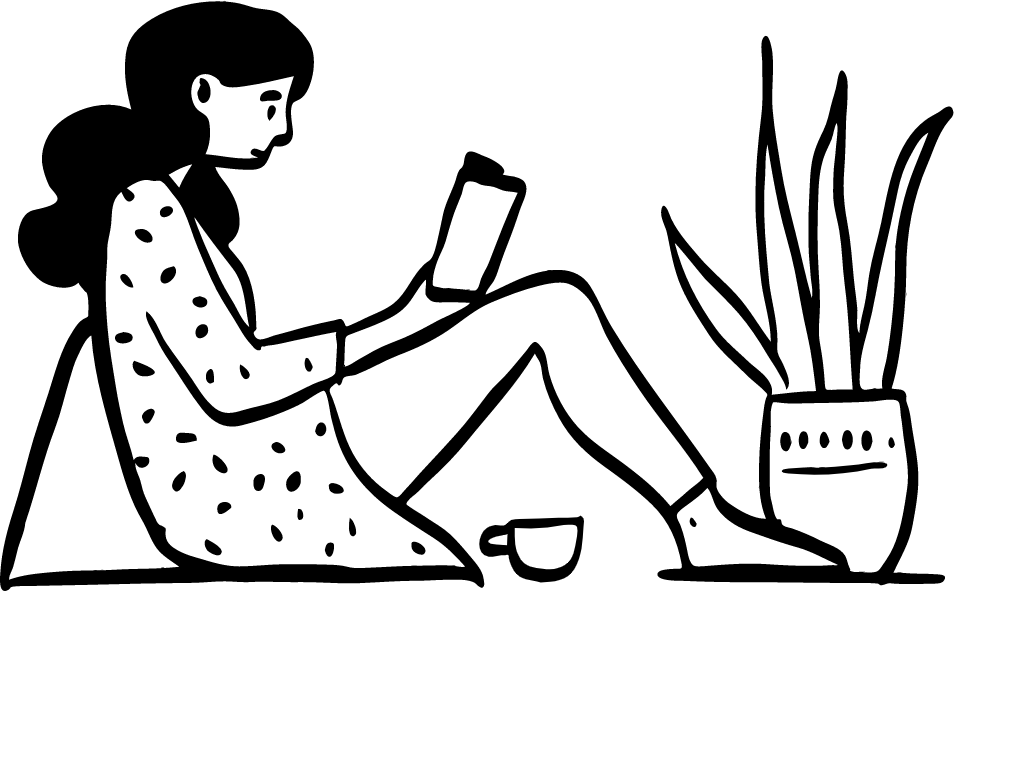
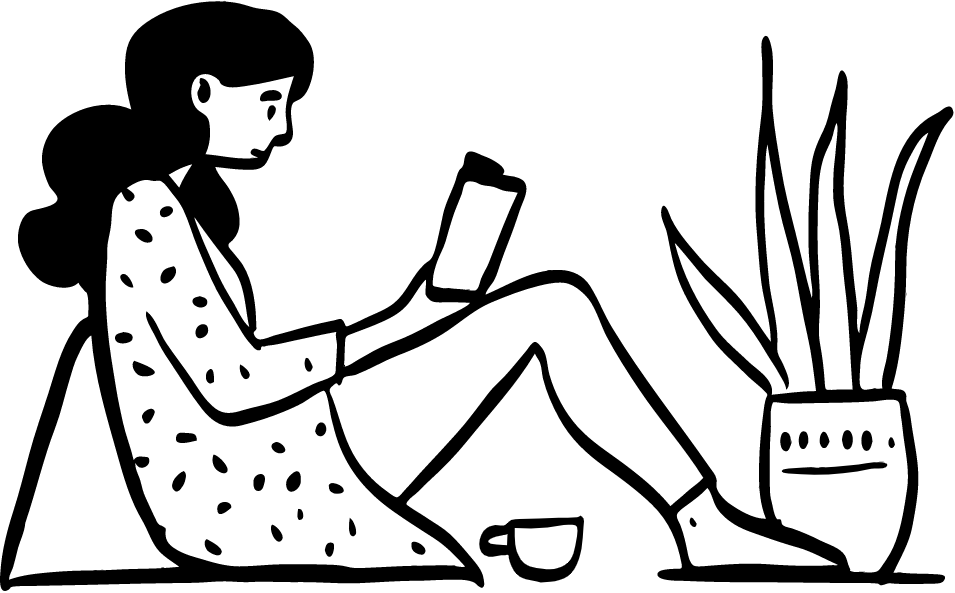
updates to landing

diff --git a/src/pages/index.js b/src/pages/index.js
@@ -1,177 +1,171 @@
 import React from 'react'
-
-import ReadingSideDoodle from '../images/doodles/ReadingSideDoodle.png'
-import MeditatingDoodle from '../images/doodles/MeditatingDoodle.png'
-import SelfieDoodle from '../images/doodles/SelfieDoodle.png'
-import LayingDoodle from '../images/doodles/LayingDoodle.png'
+import { graphql, useStaticQuery } from 'gatsby'
+import Image from 'gatsby-image'
 
 import Layout from '../components/layout'
 import Animated from '../components/animated'
 
 import { Check } from 'react-feather'
 
+const Section = ({ number, src, title, children }) => {
+  return (
+    <section className="container py-16 xl:py-48 flex flex-wrap items-center justify-center text-lg xl:text-xl">
+      <div className="w-full xl:w-1/2 flex justify-center xl:justify-end">
+        <div className="w-full relative mb-12 xl:mb-0 xl:mr-32">
+          <Image fluid={src} />
+          <div className="absolute top-0 left-0 -mt-12 -ml-12">
+            <p className="counter">{number}</p>
+          </div>
+        </div>
+      </div>
+      <div className="w-full xl:w-1/2">
+        <Animated>
+          <h2 className="text-4xl xl:text-6xl mb-4 xl:mb-8">{title}</h2>
+        </Animated>
+        <Animated>{children}</Animated>
+      </div>
+    </section>
+  )
+}
+
 export default () => {
+  const { readingSide, meditating, selfie, laying } = useStaticQuery(graphql`
+    query {
+      readingSide: file(relativePath: { eq: "doodles/ReadingSideDoodle.png" }) {
+        childImageSharp {
+          fluid(maxWidth: 400) {
+            ...GatsbyImageSharpFluid_noBase64
+          }
+        }
+      }
+      meditating: file(relativePath: { eq: "doodles/MeditatingDoodle.png" }) {
+        childImageSharp {
+          fluid(maxWidth: 400) {
+            ...GatsbyImageSharpFluid_noBase64
+          }
+        }
+      }
+      selfie: file(relativePath: { eq: "doodles/SelfieDoodle.png" }) {
+        childImageSharp {
+          fluid(maxWidth: 400) {
+            ...GatsbyImageSharpFluid_noBase64
+          }
+        }
+      }
+      laying: file(relativePath: { eq: "doodles/LayingDoodle.png" }) {
+        childImageSharp {
+          fluid(maxWidth: 400) {
+            ...GatsbyImageSharpFluid_noBase64
+          }
+        }
+      }
+    }
+  `)
+  const img1 = readingSide?.childImageSharp?.fluid
+  const img2 = meditating?.childImageSharp?.fluid
+  const img3 = selfie?.childImageSharp?.fluid
+  const img4 = laying?.childImageSharp?.fluid
   return (
     <Layout>
-      <section className="border-b-2 mb-16 xl:mb-0">
-        <div className="flex flex-wrap items-center relative p-8 xl:py-32 xl:px-12 overflow-hidden">
+      <section className="border-b mb-16 xl:mb-0 relative py-16 xl:py-48">
+        <div className="container flex flex-wrap items-center">
           <div className="w-full xl:w-3/5 mb-8 xl:mb-0 text-center xl:text-left">
-            <h1 className="text-4xl xl:text-6xl">
+            <h1 className="text-4xl xl:text-6xl font-thin">
               Send newsletters{' '}
-              <span className="pt-3 p-1 bg-gradient-to-r from-red-200 to-red-500">
-                directly
-              </span>{' '}
-              to your Kindle
+              <span className="italic font-bold">directly</span> to your Kindle
             </h1>
-            <div className="flex xl:block items-center justify-center mt-8 text-lg xl:text-base">
-              <a href="https://app.newslettertokindle.com">
+            <div className="flex xl:block items-center justify-center mt-8 xl:mt-4 text-lg xl:text-base">
+              <a href="https://app.newslettertokindle.com" className="contents">
                 <button className="btn">Get Started</button>
               </a>
             </div>
           </div>
-          <div className="w-full xl:w-2/5">
-            <img src={ReadingSideDoodle} className="-mb-16" />
+          <div className="xl:absolute right-0 top-0 w-full xl:w-2/5 xl:py-24 xl:mr-8">
+            <Image fluid={img1} />
           </div>
         </div>
       </section>
 
-      <section className="container py-16 xl:py-48 flex flex-wrap items-center justify-center text-lg xl:text-xl">
-        <div className="w-full xl:w-1/2 flex justify-center xl:justify-end">
-          <div className="relative mb-12 xl:mb-0 xl:mr-32">
-            <img src={MeditatingDoodle} />
-            <div className="absolute top-0 left-0 -mt-12 -ml-12">
-              <p className="counter">1</p>
-            </div>
-          </div>
-        </div>
-        <div className="w-full xl:w-1/2">
-          <Animated>
-            <h2 className="text-4xl xl:text-6xl mb-4 xl:mb-8">
-              Create an account
-            </h2>
-          </Animated>
-          <Animated>
-            <p>
-              Lorem ipsum dolor sit amet, consectetur adipiscing elit. Curabitur
-              faucibus eu leo ut consequat. Curabitur fermentum auctor dolor vel
-              placerat. Aliquam vitae leo varius, sodales orci eget, lacinia
-              est.
-            </p>
-          </Animated>
-        </div>
-      </section>
+      <Section number={1} title="Create an account" src={img2}>
+        <p>
+          Set up your account and start out with a month trial to see how you
+          like the service. No credit card required.
+        </p>
+      </Section>
 
-      <section className="container py-16 xl:py-48 flex flex-wrap items-center justify-center text-lg xl:text-xl">
-        <div className="w-full xl:w-1/2 flex justify-center xl:justify-end">
-          <div className="relative mb-12 xl:mb-0 xl:mr-32">
-            <img src={SelfieDoodle} />
-            <div className="absolute top-0 left-0 -mt-12 -ml-12">
-              <p className="counter">2</p>
-            </div>
-          </div>
-        </div>
-        <div className="w-full xl:w-1/2">
-          <Animated>
-            <h2 className="text-4xl xl:text-6xl mb-4 xl:mb-8">
-              Subscribe with your new email
-            </h2>
-          </Animated>
-          <Animated>
-            <p>
-              Lorem ipsum dolor sit amet, consectetur adipiscing elit. Curabitur
-              faucibus eu leo ut consequat. Curabitur fermentum auctor dolor vel
-              placerat. Aliquam vitae leo varius, sodales orci eget, lacinia
-              est.
-            </p>
-          </Animated>
-        </div>
-      </section>
+      <Section number={2} title="Subscribe with your new email" src={img3}>
+        <p>
+          Once you have created an account and linked with your Kindle device,
+          you will be provided a unique email address. You can use this email to
+          subscribe to newsletters that you want delivered right to your device.
+        </p>
+        {/* <p className="mt-6 text-sm italic">
+          Lacking inspiration?{' '}
+          <a
+            href="https://washburne.dev/favorites/newsletters"
+            target="_blank"
+            rel="noreferrer"
+            className="link"
+          >
+            Some of our favorite newsletters
+          </a>
+        </p> */}
+      </Section>
 
-      <section className="container py-16 xl:py-48 flex flex-wrap items-center justify-center text-lg xl:text-xl">
-        <div className="w-full xl:w-1/2 flex justify-center xl:justify-end">
-          <div className="relative flex justify-center items-center mb-12 xl:mb-0 xl:mr-32">
-            <img src={LayingDoodle} className="xl:-mb-48" />
-            <div className="absolute top-0 left-0 -mt-12 -ml-12">
-              <p className="counter">3</p>
-            </div>
-          </div>
-        </div>
-        <div className="w-full xl:w-1/2">
-          <Animated>
-            <h2 className="text-4xl xl:text-6xl mb-4 xl:mb-8">
-              Enjoy on your Kindle
-            </h2>
-          </Animated>
-          <Animated>
-            <p>
-              Lorem ipsum dolor sit amet, consectetur adipiscing elit. Curabitur
-              faucibus eu leo ut consequat. Curabitur fermentum auctor dolor vel
-              placerat. Aliquam vitae leo varius, sodales orci eget, lacinia
-              est.
-            </p>
-          </Animated>
-        </div>
-      </section>
+      <Section number={3} title="Enjoy on your Kindle" src={img4}>
+        <p>
+          Watch as the incoming newsletters will magically appear on your Kindle
+          device. Sit back, relax, and start reading.
+        </p>
+      </Section>
 
       <section className="bg-black py-32">
         <div className="container xl:w-1/2">
           <Animated>
-            <h2 className="text-5xl xl:text-6xl mb-4 text-white text-center">
+            <h3 className="text-5xl xl:text-6xl mb-4 text-white text-center">
               Ready to get started?
-            </h2>
+            </h3>
           </Animated>
-          <div className="bg-white rounded-lg p-6 border-2 flex flex-wrap">
-            <div className="w-full xl:w-1/2 p-6 flex flex-col h-full">
-              <h4 className="text-2xl">Free</h4>
-              <ul className="my-4 flex-grow text-sm">
+          <div className="bg-white  p-6 border-2 flex flex-wrap">
+            <div className="w-full xl:w-1/2 p-6">
+              <h4 className="text-2xl mb-2">Free</h4>
+              <ul className="text-sm">
                 <li>
-                  <div className="inline-flex">
-                    <Check />
-                    &nbsp;Lorem ipsum dolor sit amet
-                  </div>
+                  <Check />
+                  &nbsp;One-month trial for free
                 </li>
                 <li>
-                  <div className="inline-flex">
-                    <Check />
-                    &nbsp;Lorem ipsum dolor sit amet
-                  </div>
+                  <Check />
+                  &nbsp;Keep all newsletters downloaded after trial ends
                 </li>
                 <li>
-                  <div className="inline-flex">
-                    <Check />
-                    &nbsp;Lorem ipsum dolor sit amet
-                  </div>
+                  <Check />
+                  &nbsp;No credit card required
                 </li>
               </ul>
             </div>
             <div className="w-full xl:w-1/2">
-              <div className="p-6 border-t-2 xl:border-t-0 xl:border-l-2 flex flex-col h-full">
-                <h4 className="text-5xl">$3/month</h4>
-                <ul className="my-4 flex-grow text-lg">
+              <div className="p-6 border-t-2 xl:border-t-0 xl:border-l-2">
+                <h4 className="text-5xl mb-2">$3/month</h4>
+                <ul className="text-lg">
                   <li>
-                    <div className="inline-flex">
-                      <Check />
-                      &nbsp;Lorem ipsum dolor sit amet
-                    </div>
+                    <Check />
+                    &nbsp;All the premium features
                   </li>
                   <li>
-                    <div className="inline-flex">
-                      <Check />
-                      &nbsp;Lorem ipsum dolor sit amet
-                    </div>
+                    <Check />
+                    &nbsp;Lorem ipsum dolor sit amet
                   </li>
                   <li>
-                    <div className="inline-flex">
-                      <Check />
-                      &nbsp;Lorem ipsum dolor sit amet
-                    </div>
+                    <Check />
+                    &nbsp;Lorem ipsum dolor sit amet
                   </li>
                 </ul>
               </div>
             </div>
           </div>
         </div>
-        <p className="text-sm text-gray-500 text-center mt-8">
+        <p className="text-sm text-gray-600 text-center mt-8">
           Questions? Contact{' '}
           <span className="font-bold">help@newslettertokindle.com</span>
         </p>

diff --git a/gatsby-config.js b/gatsby-config.js
@@ -1,7 +1,11 @@
+const path = require('path')
+
 const resolveConfig = require('tailwindcss/resolveConfig')
 const tailwindConfig = require('./tailwind.config.js')
 
 const fullConfig = resolveConfig(tailwindConfig)
+
+if (process.env.NODE_ENV !== 'production') require('dotenv').config()
 
 module.exports = {
   siteMetadata: {
@@ -12,6 +16,14 @@ module.exports = {
   plugins: [
     `gatsby-plugin-eslint`,
     `gatsby-plugin-react-helmet`,
+    {
+      resolve: `gatsby-plugin-google-analytics`,
+      options: {
+        trackingId: process.env.GOOGLE_ANALYTICS_ID,
+        anonymize: true,
+        respectDNT: true,
+      },
+    },
     {
       resolve: `gatsby-plugin-manifest`,
       options: {
@@ -32,6 +44,15 @@ module.exports = {
         },
       },
     },
+    {
+      resolve: `gatsby-source-filesystem`,
+      options: {
+        name: `images`,
+        path: path.join(__dirname, `src`, `images`),
+      },
+    },
+    `gatsby-plugin-sharp`,
+    `gatsby-transformer-sharp`,
     {
       resolve: `gatsby-plugin-postcss`,
       options: {

diff --git a/src/components/layout.js b/src/components/layout.js
@@ -8,7 +8,18 @@ import SEO from './seo'
 export default ({ title, children }) => {
   return (
     <div className="min-h-screen">
-      <SEO title={title} />
+      <SEO
+        title={title}
+        keywords={[
+          `newsletter`,
+          `kindle`,
+          `email`,
+          `platform`,
+          `newsletters`,
+          `send`,
+          `manage`,
+        ]}
+      />
       <header className="container flex items-center py-6">
         <Link to="/" className="italic hover:text-gray-700 flex items-center">
           <Send />

diff --git a/src/pages/404.js b/src/pages/404.js
@@ -5,11 +5,11 @@ import Layout from '../components/layout'
 
 function NotFoundPage() {
   return (
-    <Layout title="404: Not found">
+    <Layout title="404">
       <section className="container py-32 text-center">
         <h1 className="uppercase text-3xl xl:text-6xl mb-4">Page Not Found</h1>
         <Link to="/" className="link text-2xl">
-          Go home
+          Home
         </Link>
       </section>
     </Layout>

diff --git a/src/components/animated.js b/src/components/animated.js
@@ -7,7 +7,7 @@ export default ({ children, ...props }) => {
   const ref = useRef(null)
   const intersection = useIntersection(ref, {
     root: null,
-    rootMargin: '0px 0px -250px 0px',
+    rootMargin: '0px 0px -200px 0px',
     threshold: 0,
   })
   useEffect(() => {

diff --git a/src/css/style.css b/src/css/style.css
@@ -4,6 +4,7 @@
 html,
 body {
   @apply font-sans;
+  @apply font-thin;
   scroll-behavior: smooth;
 }
 

diff --git a/README.md b/README.md
@@ -2,4 +2,4 @@
 
 ### Todo:
 
-- add GA
+-
